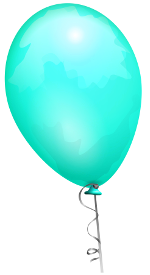
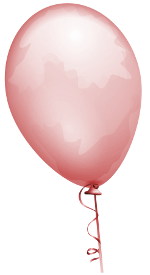
edited

diff --git a/index.html b/index.html
@@ -3,20 +3,23 @@
 <!--[if IE 7]>    <html class="ie lt-ie9 lt-ie8"> <![endif]-->
 <!--[if IE 8]>    <html class="ie lt-ie9"> <![endif]-->
 <!--[if gt IE 8]> <html> <![endif]-->
-<!--[if !IE]><!--><html lang="en"><!-- <![endif]-->
+<!--[if !IE]><!-->
+<html lang="en"><!-- <![endif]-->
+
 <head>
 	<title>Happy Birthday</title>
 	<meta charset="UTF-8" />
 	<meta name="description" content="Happy Birthday Xola">
 	<meta name="robots" content="index, follow" />
-	<link rel="author" href="https://plus.google.com/u/1/+AyushSharma1/" /> 
-    <meta name="keywords" content="Birthday, Happy">
-    <!-- Strat of Facebook Meta -->
-    <meta property="og:type" content="E-Greeting" />
-    <meta property="og:image" content="favicon.ico" />
-    <meta property="og:description" content="Wish you a very Happy Birthday">
-    <!-- End of Facebook Meta Tags -->
-	<meta name="viewport" content="width=device-width, initial-scale=1.0, user-scalable=0, minimum-scale=1.0, maximum-scale=1.0">
+	<link rel="author" href="https://plus.google.com/u/1/+AyushSharma1/" />
+	<meta name="keywords" content="Birthday, Happy">
+	<!-- Strat of Facebook Meta -->
+	<meta property="og:type" content="E-Greeting" />
+	<meta property="og:image" content="favicon.ico" />
+	<meta property="og:description" content="Wish you a very Happy Birthday">
+	<!-- End of Facebook Meta Tags -->
+	<meta name="viewport"
+		content="width=device-width, initial-scale=1.0, user-scalable=0, minimum-scale=1.0, maximum-scale=1.0">
 	<meta name="apple-mobile-web-app-capable" content="yes">
 	<meta name="apple-mobile-web-app-status-bar-style" content="black">
 	<meta http-equiv="X-UA-Compatible" content="IE=9; IE=8; IE=7; IE=EDGE" />
@@ -32,38 +35,39 @@
 <body>
 	<div class="loading"></div>
 	<audio class="song" controls loop>
-        <source src="hbd.mp3"></source>
-	   Your browser isn't invited for super fun audio time.
-    </audio>
-    <div class="balloons text-center" id="b1">
-    	<h2 style="color:#F2B300;">H</h2>
-    </div>
-    <div class="balloons text-center" id="b2">
-    	<h2 style="color:#0719D4;">B</h2>
-    </div>
+		<source src="hbd.mp3">
+		</source>
+		Your browser isn't invited for super fun audio time.
+	</audio>
+	<div class="balloons text-center" id="b1">
+		<h2 style="color:#F2B300;">H</h2>
+	</div>
+	<div class="balloons text-center" id="b2">
+		<h2 style="color:#0719D4;">B</h2>
+	</div>
 	<div class="balloons text-center" id="b3">
-    	<h2 style="color:#D14D39;">D</h2>
-    </div>
+		<h2 style="color:#D14D39;">D</h2>
+	</div>
 	<div class="balloons text-center" id="b4">
-    	<h2 style="color:#8FAD00;">M</h2>
-    </div>
+		<h2 style="color:#8FAD00;">N</h2>
+	</div>
 	<div class="balloons text-center" id="b5">
-    	<h2 style="color:#8377E4;">A</h2>
-    </div>
-    <div class="balloons text-center" id="b6">
-    	<h2 style="color:#99C96A;">L</h2>
-    </div>
-    <div class="balloons text-center" id="b7">
-    	<h2 style="color:#20CFB4;">A</h2>
-    </div>
+		<h2 style="color:#8377E4;">O</h2>
+	</div>
+	<div class="balloons text-center" id="b6">
+		<h2 style="color:#99C96A;">U</h2>
+	</div>
+	<div class="balloons text-center" id="b7">
+		<h2 style="color:#20CFB4;">R</h2>
+	</div>
 	<div class="balloons text-center" id="b8">
-    	<h2 style="color:#8320cf;">K</h2>
-    </div>
-    <img src="Balloon-Border.png" width="100%" class="balloon-border">
- 
+		<h2 style="color:#8320cf;">&#10084;</h2>
+	</div>
+	<img src="Balloon-Border.png" width="100%" class="balloon-border">
+
 
 	<div class="container">
-		
+
 		<div class="row">
 			<div class="col-md-2 col-xs-2 bulb-holder">
 				<div class="bulb" id="bulb_yellow"></div>
@@ -92,65 +96,81 @@
 		<div class="row cake-cover">
 			<div class="col-md-12 texr-center">
 				<div class="cake">
-				  <div class="velas">
-				    <div class="fuego"></div>
-				    <div class="fuego"></div>
-				    <div class="fuego"></div>
-				    <div class="fuego"></div>
-				    <div class="fuego"></div>
-				  </div>
-				  <div class="cobertura"></div>
-				  <div class="bizcocho"></div>
+					<div class="velas">
+						<div class="fuego"></div>
+						<div class="fuego"></div>
+						<div class="fuego"></div>
+						<div class="fuego"></div>
+						<div class="fuego"></div>
+					</div>
+					<div class="cobertura"></div>
+					<div class="bizcocho"></div>
 				</div>
 			</div>
 		</div>
 		<div class="row message">
-<div class="col-md-12">
-    <p>Today is...</p>
-    <p>as beautiful as other days</p>
-    <p>but today is a little different</p>
-    <p>because it is your birthday, Malak</p>
-    <p>another year has passed</p>
-    <p>in a blink of the eyes</p>
-    <p><strong>however</strong></p>
-    <p>Do you know..?</p>
-    <p>today is special</p>
-    <p>because it belongs to you</p>
-    <p>that's why</p>
-    <p>I hope you enjoy it...</p>
-    <p>in the best way possible</p>
-    <p>and I just wanted to share...</p>
-    <p>a small birthday wish with you</p>
-    <p>I made this...</p>
-    <p>as a simple birthday surprise for you</p>
-    <p>even though we do not know each other very well</p>
-    <p>I wanted to wish you something nice today</p>
-    <p>I hope this day brings you happiness</p>
-    <p>I wish you all the best</p>
-    <p>May your life be full of peace</p>
-    <p>May your dreams come true</p>
-    <p>May this new year of your life</p>
-    <p>bring you success, joy, and beautiful moments</p>
-    <p>Remember</p>
-    <p>to keep smiling</p>
-    <p>to believe in yourself</p>
-    <p>and to enjoy every step of your journey</p>
-    <p>Life is full of new beginnings</p>
-    <p>and today is one of them</p>
-    <p>so I hope</p>
-    <p>this year will be better</p>
-    <p>and I hope</p>
-    <p>you'll find...</p>
-    <p>happiness along the way</p>
-    <p>keep your spirit high</p>
-    <p>enjoy every single moment...</p>
-    <p>that you experience today</p>
-    <p>fill it with your most beautiful smile</p>
-    <p>and make it a lovely memory..</p>
-    <p>lastly...</p>
-    <p>I'd like to wish you one more time</p>
-    <p>a very happy birthday, Malak</p>
-</div>
+			<div class="col-md-12">
+				<p>Today is...</p>
+				<p>as beautiful as every other day</p>
+				<p>but today feels a little different</p>
+				<p>because it is your birthday, Nour</p>
+
+				<p>Another year has passed</p>
+				<p>in the blink of an eye</p>
+				<p><strong>but today...</strong></p>
+				<p>today belongs to you</p>
+
+				<p>I know I have made many mistakes toward you</p>
+				<p>and maybe I did not always treat you the way you deserved</p>
+				<p>for that, I am truly sorry</p>
+				<p>from the bottom of my heart</p>
+
+				<p>I never wanted to hurt you</p>
+				<p>and if I did, I regret it deeply</p>
+				<p>because you are someone special</p>
+				<p>someone I respect</p>
+				<p>someone I care about</p>
+				<p>more than my words can fully explain</p>
+
+				<p>On your birthday</p>
+				<p>I do not only want to wish you happiness</p>
+				<p>I also want to wish you peace</p>
+				<p>success</p>
+				<p>strength</p>
+				<p>and everything beautiful that life can give you</p>
+
+				<p>I hope your dreams come true</p>
+				<p>I hope every step you take leads you closer to success</p>
+				<p>I hope this new year of your life</p>
+				<p>brings you joy, love, and unforgettable moments</p>
+
+				<p>You deserve to smile</p>
+				<p>you deserve to be happy</p>
+				<p>you deserve to be surrounded by good things</p>
+				<p>and by people who truly value you</p>
+
+				<p>I know we may not be perfect</p>
+				<p>and I know I have not been perfect either</p>
+				<p>but my feelings for you are honest</p>
+				<p>and my wish for you today is sincere</p>
+
+				<p>So please remember...</p>
+				<p>keep believing in yourself</p>
+				<p>keep chasing your dreams</p>
+				<p>keep your beautiful spirit alive</p>
+				<p>and never forget how precious you are</p>
+
+				<p>May this birthday be the beginning</p>
+				<p>of a better year</p>
+				<p>a happier year</p>
+				<p>and a year full of success for you</p>
+
+				<p>Lastly...</p>
+				<p>I want to wish you one more time</p>
+				<p>a very happy birthday, Nour</p>
+				<p>May Allah bless you, protect you, and guide you always</p>
+			</div>
+
 
 		</div>
 		<div class="navbar navbar-fixed-bottom">
@@ -186,13 +206,16 @@
 <script src="https://maxcdn.bootstrapcdn.com/bootstrap/3.3.1/js/bootstrap.min.js"></script>
 <script src="effect.js"></script>
 <script>
-  (function(i,s,o,g,r,a,m){i['GoogleAnalyticsObject']=r;i[r]=i[r]||function(){
-  (i[r].q=i[r].q||[]).push(arguments)},i[r].l=1*new Date();a=s.createElement(o),
-  m=s.getElementsByTagName(o)[0];a.async=1;a.src=g;m.parentNode.insertBefore(a,m)
-  })(window,document,'script','//www.google-analytics.com/analytics.js','ga');
+	(function (i, s, o, g, r, a, m) {
+		i['GoogleAnalyticsObject'] = r; i[r] = i[r] || function () {
+			(i[r].q = i[r].q || []).push(arguments)
+		}, i[r].l = 1 * new Date(); a = s.createElement(o),
+			m = s.getElementsByTagName(o)[0]; a.async = 1; a.src = g; m.parentNode.insertBefore(a, m)
+	})(window, document, 'script', '//www.google-analytics.com/analytics.js', 'ga');
 
-  ga('create', 'UA-58229732-1', 'auto');
-  ga('send', 'pageview');
+	ga('create', 'UA-58229732-1', 'auto');
+	ga('send', 'pageview');
 
 </script>
+
 </html>
